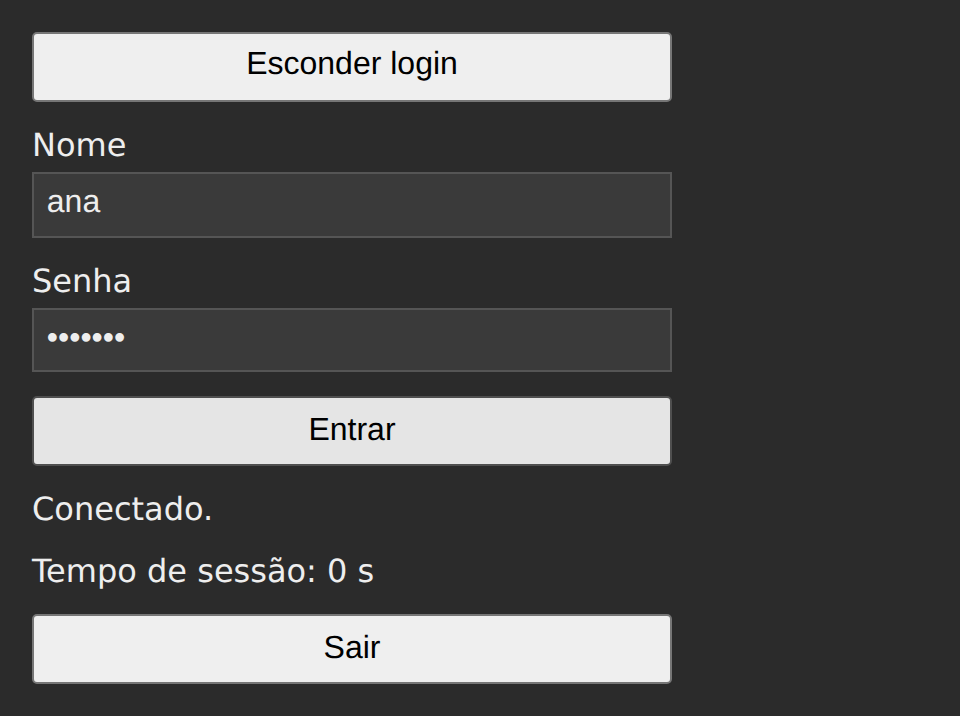
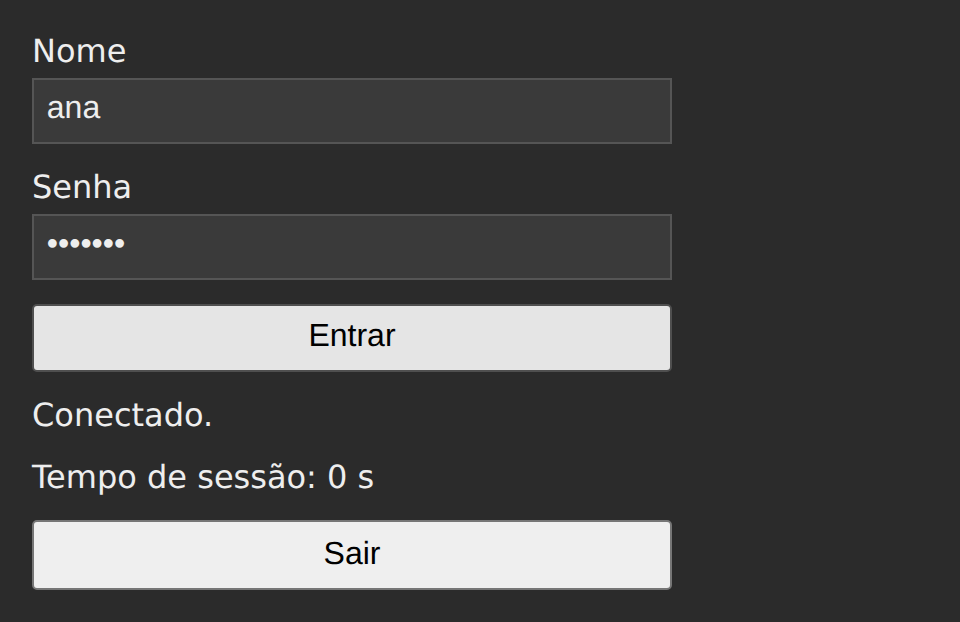
Hospeda o Login no Web Component com signals pela página comum
O Login no Web Component com signals ainda traz a página com o botão
"Esconder login"/"Mostrar login", um segundo elemento que só existe para
o teste de conformidade tirar o painel da página, e por isso falha nas
verificações de "Limpeza ao sair da tela", que desde "Confere a limpeza
ao sair da tela pela rota da página, sem botão" saem e voltam pela rota
do hash de implementacoes/pagina.ts (ADR 0043).

A página sai, com o efeito que criava o painel e a limpeza que o tirava,
e fica o par montar e desmontar no idioma da tecnologia, o mesmo do Web
Component: o createElement e o append do painel no contêiner, e o
remove(), que dispara o disconnectedCallback. O index.html passa a
trazer o contêiner #raiz com a classe do layout, que a página montava. A
limpeza ao sair da tela, o dispose do createRoot no
disconnectedCallback, não muda: é o que se compara.

Conferido com npm run conformidade --
login-com-quarentena/web-component-signals (23 verificações ok) e com as
capturas regeradas: as 4 cenas saem sem o botão, iguais às do Web
Component, e diferentes das outras até o commit de cada uma.

Changed region(s): [[0.0312, 0.0305, 0.7188, 0.9775]]

diff --git a/implementacoes/login-com-quarentena/web-component-signals/src/main.ts b/implementacoes/login-com-quarentena/web-component-signals/src/main.ts
@@ -8,6 +8,7 @@ import {
   podeEntrar,
   tempoDeSessao,
 } from "../../dominio";
+import { hospedar } from "../../../pagina";
 import "../../estilo.css";
 
 type Situacao = keyof typeof MENSAGENS;
@@ -108,42 +109,10 @@ class PainelDeLogin extends HTMLElement {
   }
 }
 
-// A página: o botão que tira o painel da página e o põe de volta.
-class LoginComQuarentena extends HTMLElement {
-  private descartar?: () => void;
-
-  connectedCallback() {
-    this.innerHTML = /* HTML */ `
-      <main class="login">
-        <button type="button" class="alternar">Esconder login</button>
-      </main>
-    `;
-    const principal = this.querySelector("main")!;
-    const alternar = this.querySelector<HTMLButtonElement>(".alternar")!;
-
-    const [visivel, setVisivel] = createSignal(true);
-    alternar.addEventListener("click", () => setVisivel(!visivel()));
-
-    this.descartar = createRoot((descartar) => {
-      createEffect(() => {
-        alternar.textContent = visivel() ? "Esconder login" : "Mostrar login";
-      });
-      // O painel entra quando o sinal fica verdadeiro, e a limpeza o tira
-      // quando ele fica falso.
-      createEffect(() => {
-        if (!visivel()) return;
-        const painel = document.createElement("painel-de-login");
-        principal.append(painel);
-        onCleanup(() => painel.remove());
-      });
-      return descartar;
-    });
-  }
-
-  disconnectedCallback() {
-    this.descartar?.();
-  }
-}
-
 customElements.define("painel-de-login", PainelDeLogin);
-customElements.define("login-com-quarentena", LoginComQuarentena);
+
+hospedar((conteiner) => {
+  const painel = document.createElement("painel-de-login");
+  conteiner.append(painel);
+  return () => painel.remove();
+});

diff --git a/implementacoes/login-com-quarentena/web-component-signals/index.html b/implementacoes/login-com-quarentena/web-component-signals/index.html
@@ -6,7 +6,7 @@
     <title>Login com quarentena com Web Component e signals</title>
   </head>
   <body>
-    <login-com-quarentena></login-com-quarentena>
+    <main id="raiz" class="login"></main>
     <script type="module" src="/src/main.ts"></script>
   </body>
 </html>
